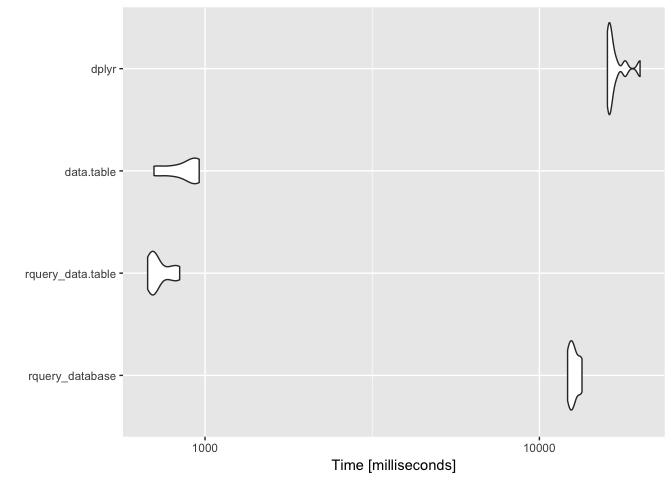
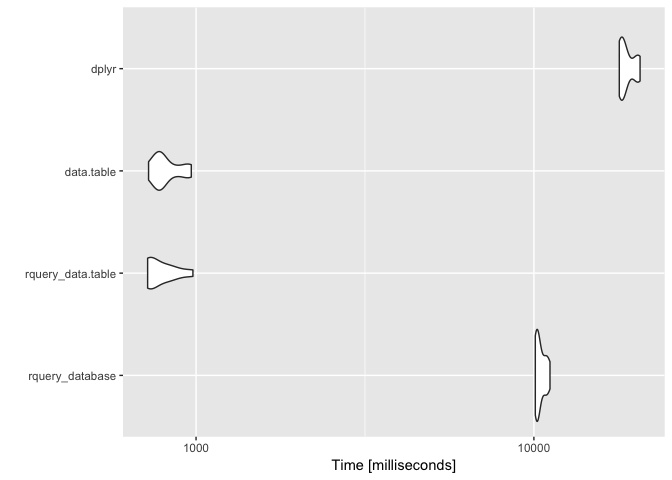
argument narrowing for all examples (rquery implements it on its own, but give the other methods the benefit)

diff --git a/extras/data_table.md b/extras/data_table.md
@@ -140,7 +140,9 @@ execute(dL, rquery_pipeline) %.>%
 ``` r
 scale <- 0.237
 
-dplyr_pipeline <- . %>% group_by(subjectID) %>%
+dplyr_pipeline <- . %>% 
+  as.tbl(.[, c("subjectID", "surveyCategory", "assessmentTotal")]) %>% # narrow and convert to preferred structure
+  group_by(subjectID) %>%
   mutate(probability =
            exp(assessmentTotal * scale)/
            sum(exp(assessmentTotal * scale), na.rm = TRUE)) %>%
@@ -176,7 +178,9 @@ Idiomatic `data.table` pipeline.
 # improved code from:
 # http://www.win-vector.com/blog/2018/01/base-r-can-be-fast/#comment-66746
 data.table_local <- function(dL) {
-  dDT <- data.table::as.data.table(dL)
+  # data.table is paying for this copy in its timings (not quite fair)
+  # so we will try to minimize it by narrowing columns.
+  dDT <- data.table::as.data.table(dL[, c("subjectID", "surveyCategory", "assessmentTotal")])
   dDT <- dDT[, list(diagnosis = surveyCategory,
                     probability = exp (assessmentTotal * scale ) /
                       sum ( exp ( assessmentTotal * scale ) ))
@@ -204,6 +208,7 @@ dL$subjectID <- paste(dL$subjectID, (1+seq_len(nrow(dL))) %/% 2, sep = "_")
 for(i in seq_len(10)) {
   dL[[paste0("irrelevantCol", i)]] <- runif(nrow(dL))
 }
+dLorig <- dL
 ```
 
 ``` r
@@ -236,6 +241,13 @@ assertthat::are_equal(ref, c3)
     ## [1] TRUE
 
 ``` r
+# confirm no side-effects back to orginal frame
+assertthat::are_equal(dLorig, dL)
+```
+
+    ## [1] TRUE
+
+``` r
 timings <- microbenchmark(times = 10L,
   rquery_database = nrow(execute(dL, rquery_pipeline)),
   rquery_data.table = nrow(ex_data_table(rquery_pipeline)),
@@ -249,15 +261,15 @@ print(timings)
 
     ## Unit: milliseconds
     ##               expr        min         lq       mean     median         uq
-    ##    rquery_database 12142.7993 12320.7961 12681.7088 12620.9087 13064.7130
-    ##  rquery_data.table   673.5670   691.3015   730.9552   709.7306   774.7688
-    ##         data.table   703.7485   798.0307   866.0074   917.4921   935.7896
-    ##              dplyr 15974.8765 16134.2316 16836.6624 16340.9353 16928.0881
+    ##    rquery_database 10096.8669 10209.7952 10454.1202 10273.5284 10802.6368
+    ##  rquery_data.table   718.9044   721.2533   789.1431   753.1543   825.3029
+    ##         data.table   723.5045   761.9016   818.0956   787.5019   869.4023
+    ##              dplyr 17897.0035 18086.7331 18850.8112 18421.9741 19956.2487
     ##         max neval
-    ##  13409.0698    10
-    ##    839.8092    10
-    ##    960.7547    10
-    ##  20002.3947    10
+    ##  11159.0482    10
+    ##    978.8552    10
+    ##    968.0280    10
+    ##  20619.4354    10
 
 ``` r
 # summarize by hand using rquery database connector
@@ -272,10 +284,10 @@ timings %.>%
 
 | expr               |         mean|
 |:-------------------|------------:|
-| dplyr              |  16836662392|
-| rquery\_database   |  12681708822|
-| rquery\_data.table |    730955241|
-| data.table         |    866007351|
+| dplyr              |  18850811222|
+| rquery\_database   |  10454120200|
+| rquery\_data.table |    789143110|
+| data.table         |    818095618|
 
 ``` r
 autoplot(timings)
